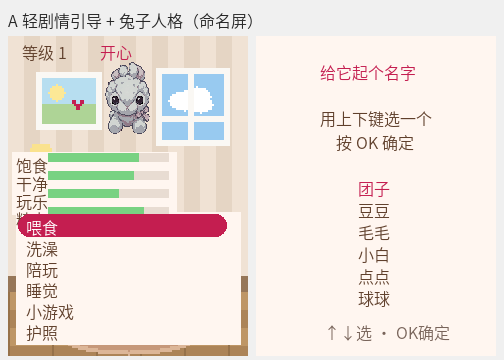
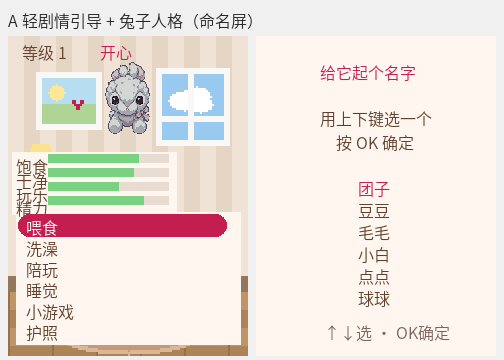
pet: 修正对比图 z 序（tint 只压房间背景，兔子/文字在其上，无遮挡）+ 状态条间距对齐固件

Changed region(s): [[0.0298, 0.4278, 0.3571, 0.6111]]

diff --git a/tools/preview_pet.py b/tools/preview_pet.py
@@ -48,30 +48,42 @@ def load_rabbit():
     return None
 
 def draw_home(base, tint=None, winter=False, name=None):
-    """在 base(房间图) 上叠加主屏 UI，返回 PIL Image。tint=(r,g,b,opa) 可选。"""
+    """在 base(房间图) 上叠加主屏 UI，返回 PIL Image。tint=(r,g,b,opa) 可选。
+
+    绘制层级严格对齐固件 build_home 的 z 序：
+      房间背景 → 昼夜/季节叠色(g_tint, 沉底, 只压房间顶部 y<116)
+      → 奶油文字面板 → HUD/状态条/列表 → 兔子/雪帽 → 季节标
+    因此 tint 只给顶部房间区上氛围色，兔子与文字画在 tint 之上，绝不被盖（无遮挡）。
+    """
     img = base.convert("RGBA")
+    # 1) 昼夜/季节叠色层：只压房间背景图顶部（y<116），下半蒙版擦透明（与固件 g_tint 沉底一致）
+    if tint:
+        r, g, b, opa = tint
+        ov = Image.new("RGBA", (W, H), (r, g, b, opa))
+        ImageDraw.Draw(ov).rectangle([0, 116, W, H], fill=(0, 0, 0, 0))
+        img = Image.alpha_composite(img, ov)
     d = ImageDraw.Draw(img, "RGBA")
-    # 文字衬底面板（与固件一致：状态区 y116 / 列表区 y176）
+    # 2) 文字衬底面板（盖住下半，与固件一致；在 tint 之上）
     d.rectangle([4, 116, 168, 178], fill=CREAM + (255,))
     d.rectangle([8, 176, 232, 308], fill=CREAM + (255,))
-    # HUD
+    # 3) HUD（在 tint 之上，不被染）
     d.text((14, 4), "等级 1", font=font(), fill=BROWN)
     d.text((92, 4), "开心", font=font(), fill=RED)
-    # 状态条
+    # 4) 状态条（与固件一致：row0=118, dyy=14 -> 118/132/146/160，收在 y168，绝不碰列表）
     rows = [("饱食", 90), ("干净", 85), ("玩乐", 70), ("精力", 95)]
     for i, (lab, v) in enumerate(rows):
-        y = 117 + i * 18
+        y = 118 + i * 14
         d.text((8, y), lab, font=font(), fill=BROWN)
         d.rectangle([40, y, 160, y + 8], fill=(232, 220, 210, 255))
         d.rectangle([40, y, 40 + v, y + 8], fill=(120, 210, 130, 255))
-    # 照顾列表
+    # 5) 照顾列表
     items = ["喂食", "洗澡", "陪玩", "睡觉", "小游戏", "护照"]
     sel = 0
     d.rounded_rectangle([10, 178 + sel * 21, 218, 178 + sel * 21 + 22], radius=11, fill=RED)
     for i, it in enumerate(items):
         col = WHITE if i == sel else BROWN
         d.text((18, 179 + i * 21), it, font=font(), fill=col)
-    # 兔子
+    # 6) 兔子（在 tint 之上，不被染）
     rb = load_rabbit()
     if rb:
         img.alpha_composite(rb, (84, 26))
@@ -80,16 +92,10 @@ def draw_home(base, tint=None, winter=False, name=None):
             cap = os.path.join(SPR, "costume_hat.png")
             if os.path.exists(cap):
                 img.alpha_composite(Image.open(cap).convert("RGBA"), (84, 26))
-    # 季节字符（HUD 小标）
+    # 7) 季节字符（HUD 小标，在 tint 之上）
     if name is not None:
+        d = ImageDraw.Draw(img, "RGBA")
         d.text((150, 4), name, font=font(), fill=BROWN)
-    # 昼夜/季节叠色层（纯视觉，仅顶部房间区可见；面板不透明挡住下半）
-    if tint:
-        r, g, b, opa = tint
-        ov = Image.new("RGBA", (W, H), (r, g, b, opa))
-        # 只透出顶部房间区（y < 116）：下半蒙版擦透明，避免压字
-        ImageDraw.Draw(ov).rectangle([0, 116, W, H], fill=(0, 0, 0, 0))
-        img = Image.alpha_composite(img, ov)
     return img.convert("RGB")
 
 def draw_intro(step):
@@ -145,8 +151,8 @@ def main():
     naming.save(out1)
     print("written", out1)
 
-    # season.png: 改前(恒定白天) vs 改后(夜晚+冬季蓝调+雪帽)
-    before_season = draw_home(room, tint=None, winter=False, name="春")
+    # season.png: 改前(恒定白天，无季节功能) vs 改后(夜晚+冬季蓝调+雪帽)
+    before_season = draw_home(room, tint=None, winter=False, name=None)
     after_season = draw_home(room, tint=(55, 75, 130, 56), winter=True, name="冬")
     season = side_by_side(before_season, after_season,
                            "改前：恒定白天，无季节变化", "改后：夜晚+冬季蓝调，兔子戴雪帽",
